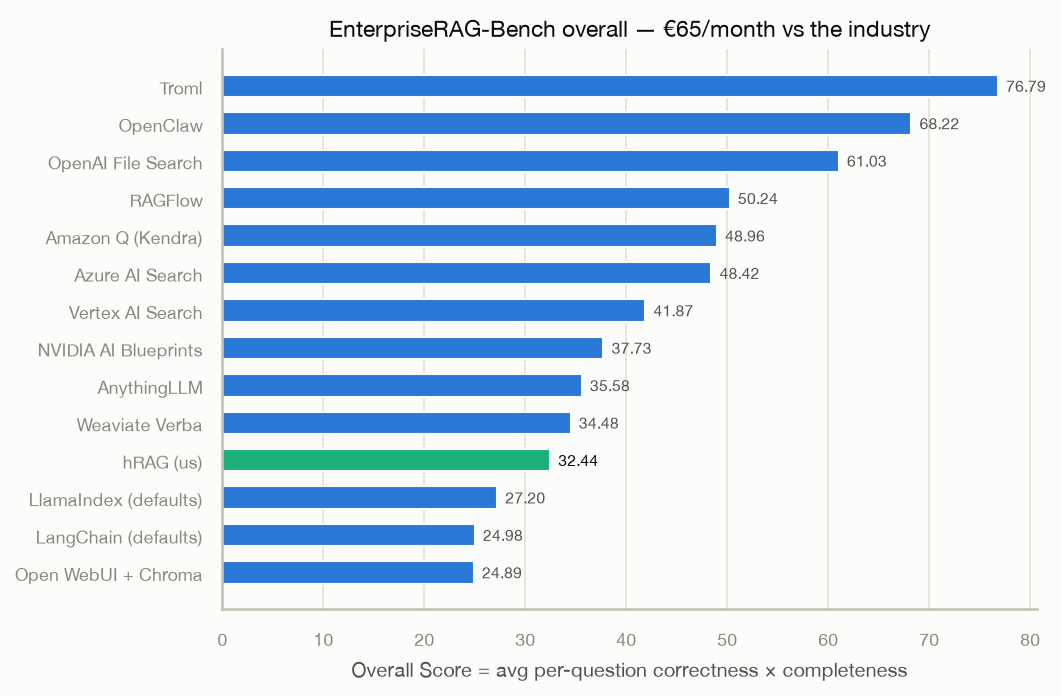
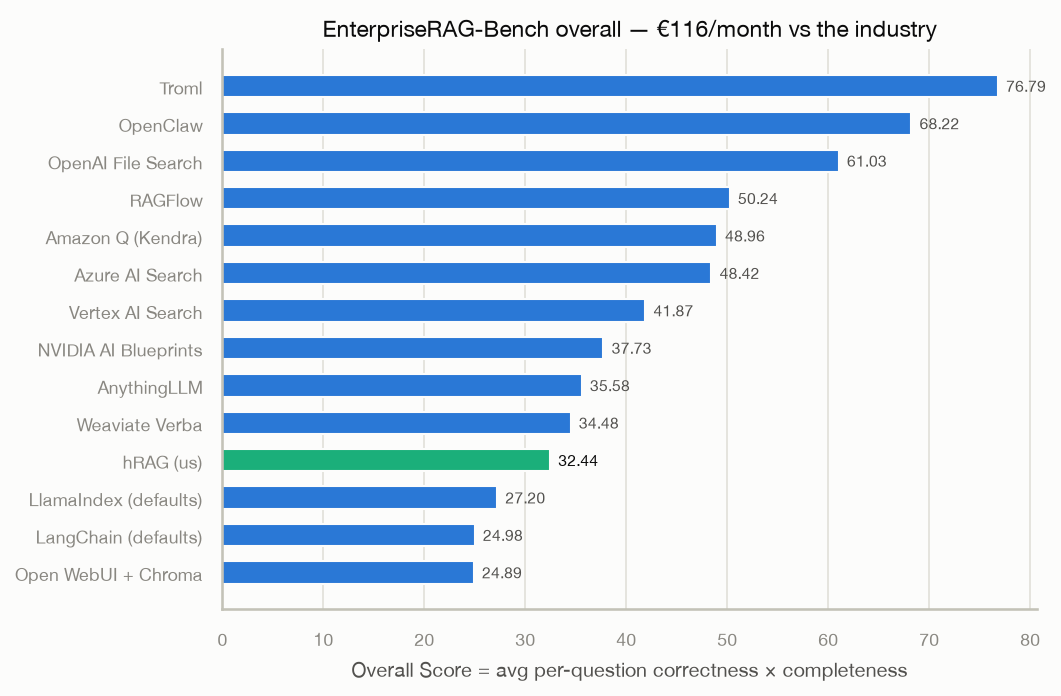
fig: correct cluster cost to 116/month

Changed region(s): [[0.2799, 0.0302, 0.591, 0.0603], [0.6221, 0.0302, 0.902, 0.0603]]

diff --git a/bench/answer_bench.py b/bench/answer_bench.py
@@ -122,7 +122,7 @@ async def run(args) -> None:
         model=os.environ.get(
             "LLM_MODEL", "mistralai/mistral-small-3.2-24b-instruct"),
         base_url=os.environ.get("LLM_BASE_URL"),
-        max_tokens=1024)
+        max_tokens=args.max_tokens)
     sem = asyncio.Semaphore(args.concurrency)
     lock = asyncio.Lock()
     stats = {"done": 0, "errors": 0, "t0": time.monotonic()}
@@ -149,6 +149,9 @@ def main() -> int:
     p.add_argument("--chunks", type=int, default=8)
     p.add_argument("--prompt-style", default="terse",
                    choices=["terse", "complete"])
+    # reasoning-model families (gpt-5-*) spend max_tokens on thinking
+    # BEFORE emitting text; 1024 yields empty answers -- raise for those
+    p.add_argument("--max-tokens", type=int, default=1024)
     args = p.parse_args()
     asyncio.run(run(args))
     return 0

diff --git a/bench/plot_judge.py b/bench/plot_judge.py
@@ -98,7 +98,7 @@ def fig_overall_leaderboard(data, out: Path) -> None:
                     color=INK if "hRAG" in name else INK2)
     ax.set_yticks(y, [n for n, _ in board])
     ax.set_xlabel("Overall Score = avg per-question correctness × completeness")
-    ax.set_title("EnterpriseRAG-Bench overall — €65/month vs the industry")
+    ax.set_title("EnterpriseRAG-Bench overall — €116/month vs the industry")
     ax.grid(axis="y", visible=False)
     save(fig, out, "judge_overall_leaderboard.png")
 

diff --git a/bench/plot_bench.py b/bench/plot_bench.py
@@ -73,7 +73,7 @@ def fig_per_type(data, out: Path) -> None:
     ax.set_yticks(y, labels)
     ax.set_xlim(0, 1.02)
     ax.set_xlabel("share of gold documents retrieved (top-10 documents)")
-    ax.set_title("EnterpriseRAG-Bench, 512K docs — e5-small on €65/month of Hetzner")
+    ax.set_title("EnterpriseRAG-Bench, 512K docs — e5-small on €116/month of Hetzner")
     ax.legend(loc="lower right")
     ax.grid(axis="y", visible=False)
     save(fig, out, "erb_per_type.png")
